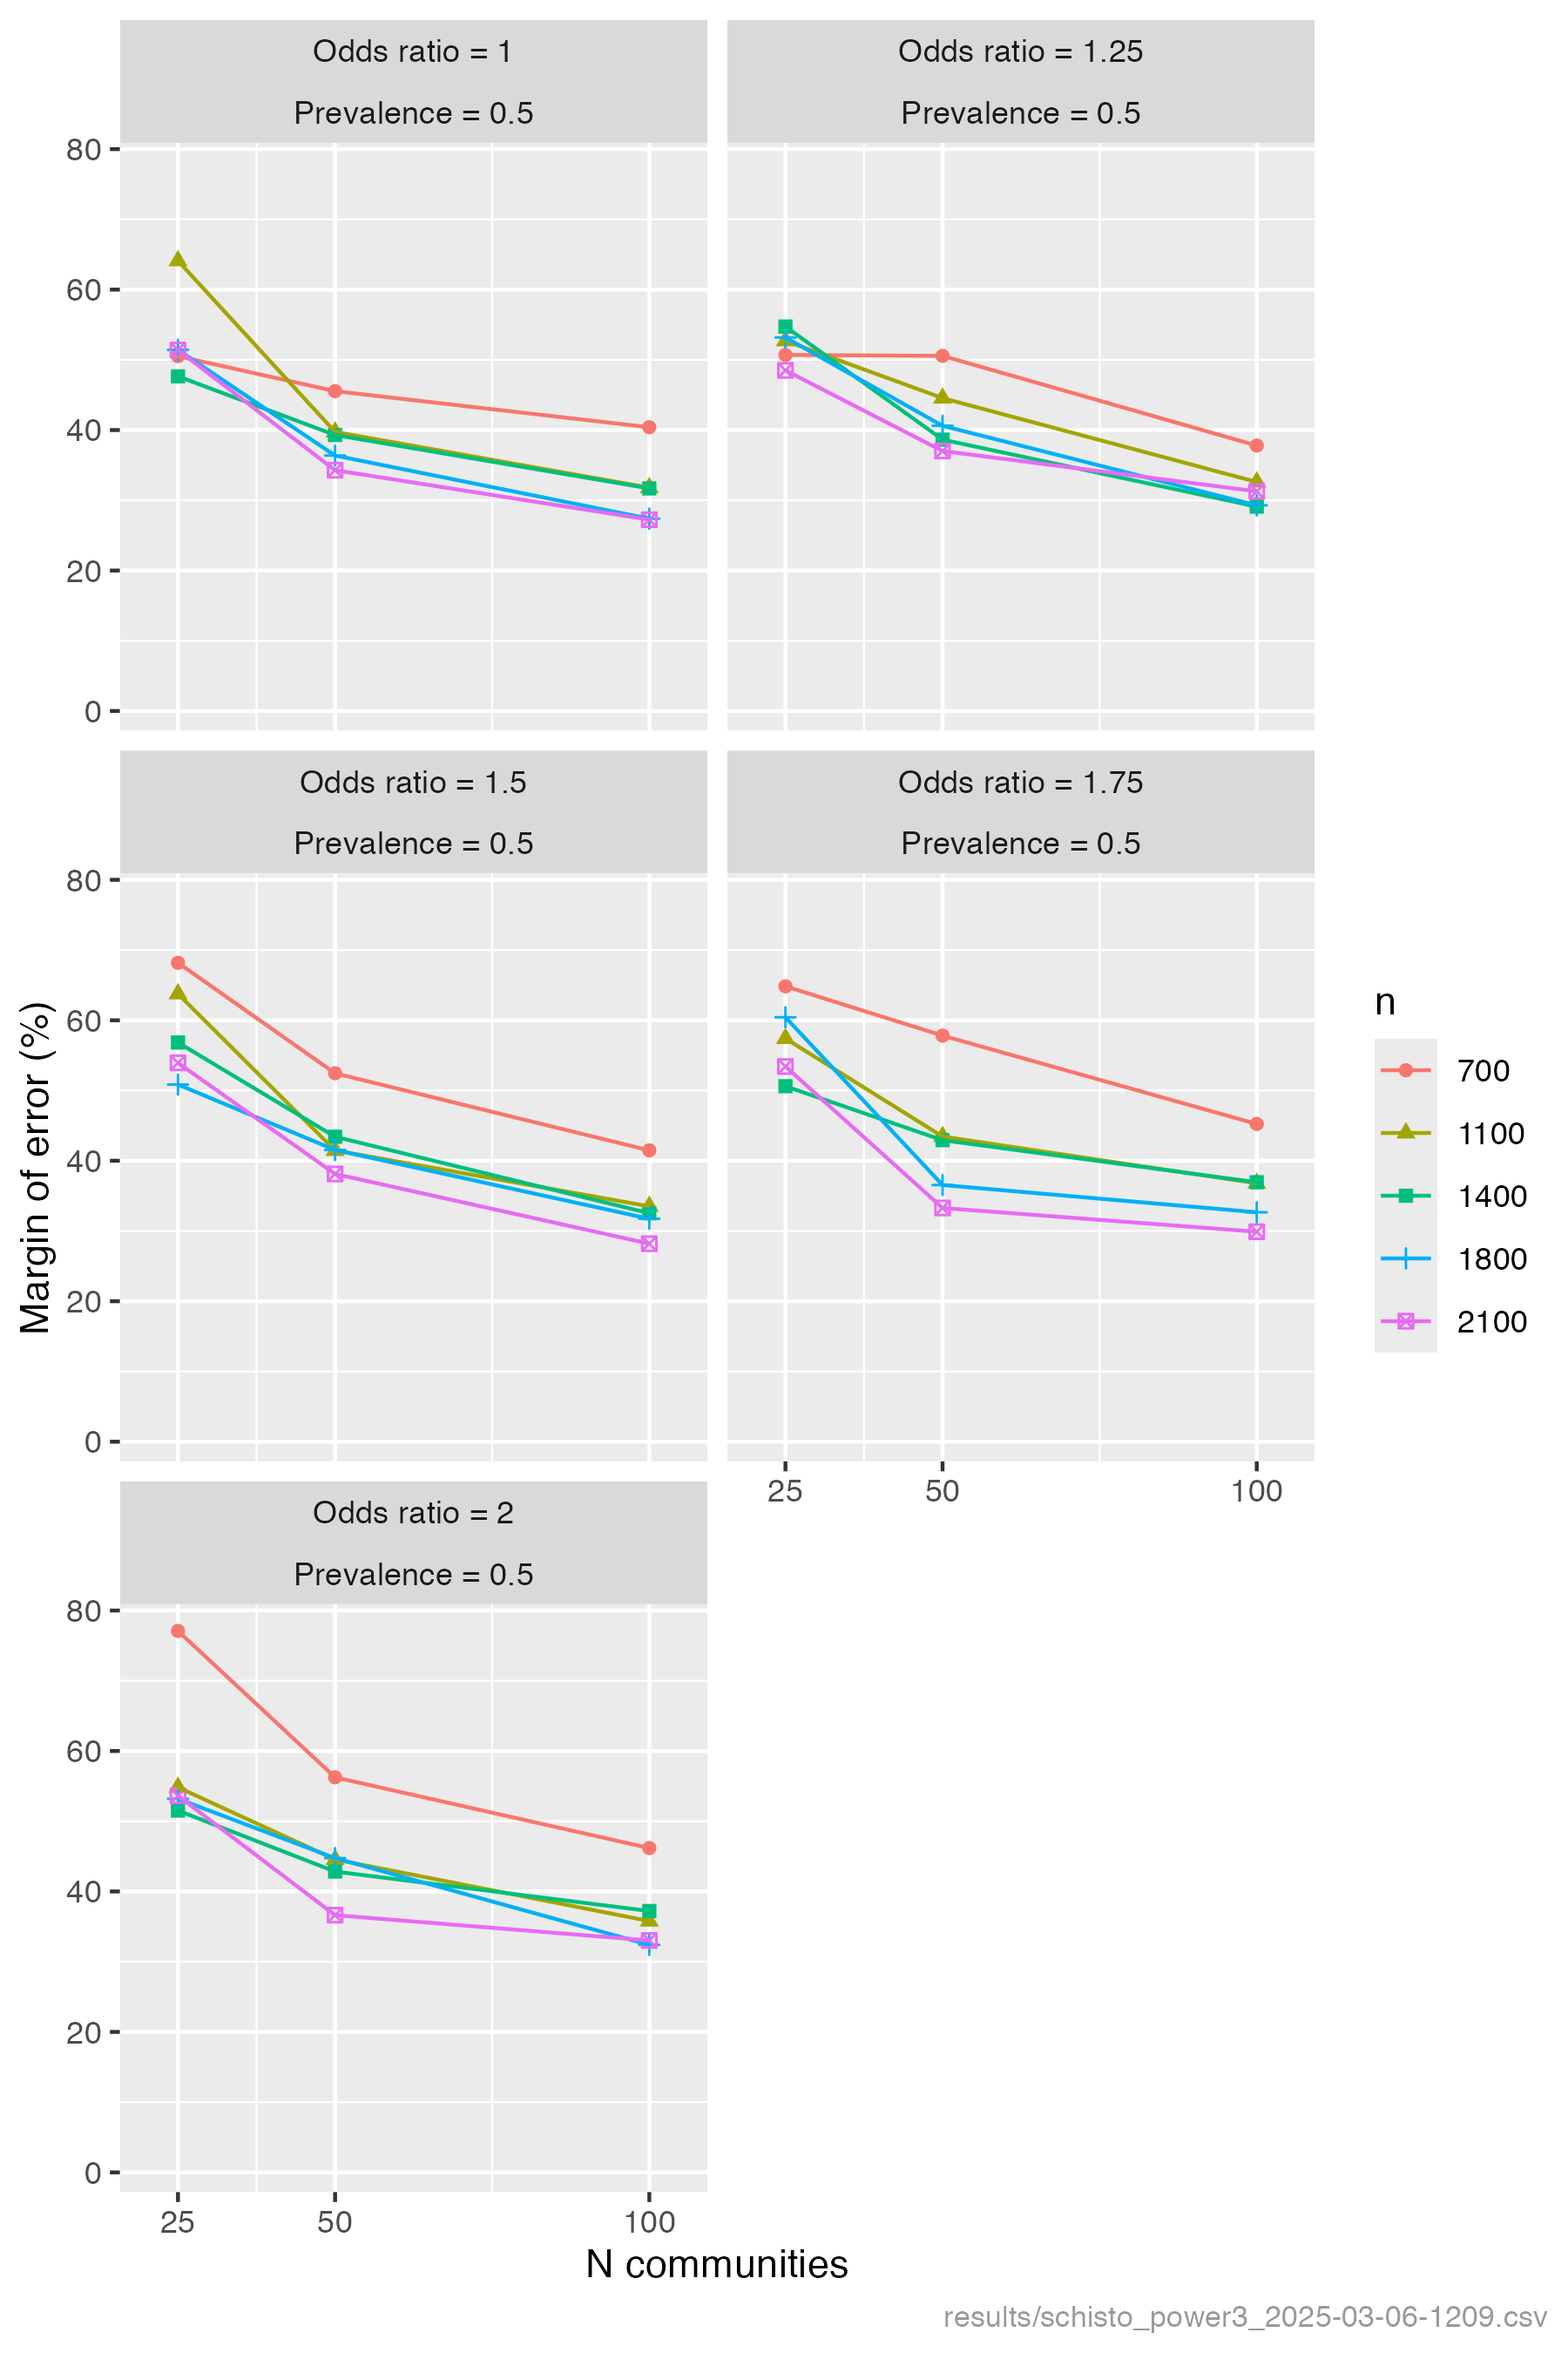
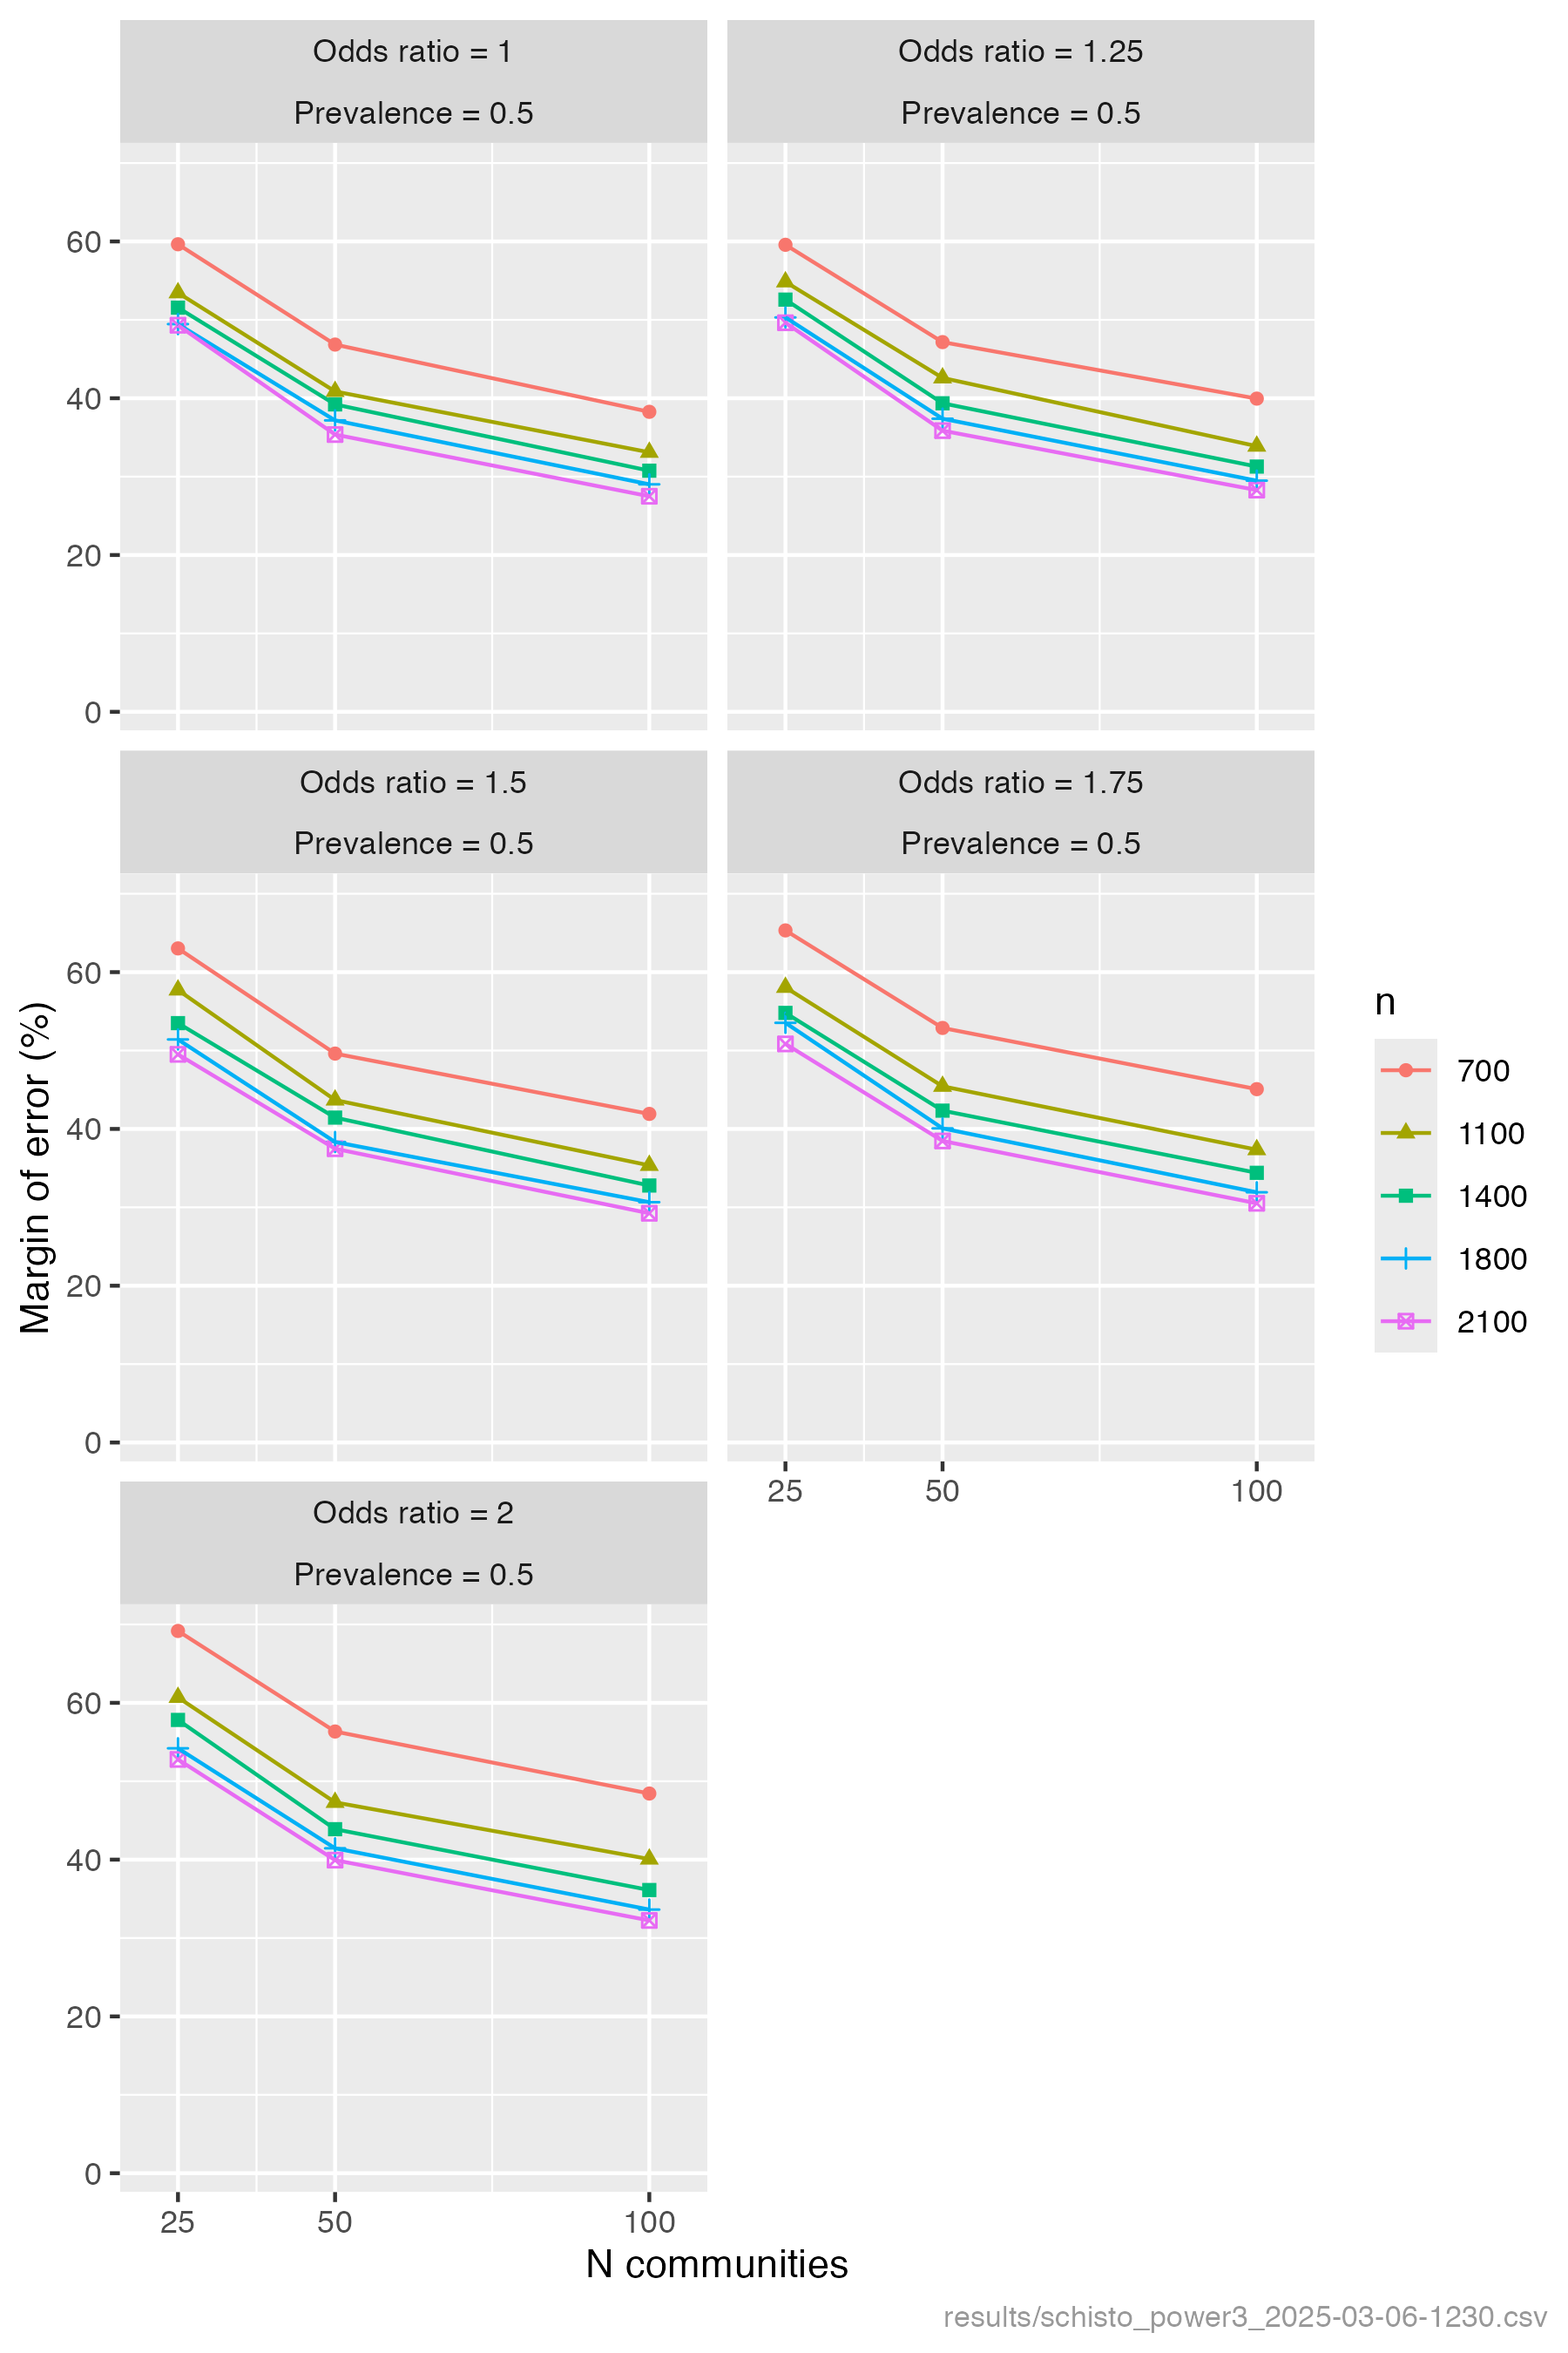
Longer simulations run

diff --git a/README.md b/README.md
@@ -2,7 +2,7 @@
 
  ### Methods
 
- The aim of this power analysis is to estimate power to detect drivers of praziquantel treatment failure in individuals infected with schistosomiasis. This is a simulation-based power analysis, where the study data is simulated and analysed multiple times under varying study design scenarios, and power is estimated as the proportion of simulated analyses that achieve the desired outcome (detecting a true driver of treatment failure). The association between the outcome (treatment failure) and each driver is estimated and tested in a multivariable GLM. For this analysis, power is defined as the proportion of drivers that are significantly associated with the outcome, averaged across 10 simulated data analyses per scenario.
+ The aim of this power analysis is to estimate power to detect drivers of praziquantel treatment failure in individuals infected with schistosomiasis. This is a simulation-based power analysis, where the study data is simulated and analysed multiple times under varying study design scenarios, and power is estimated as the proportion of simulated analyses that achieve the desired outcome (detecting a true driver of treatment failure). The association between the outcome (treatment failure) and each driver is estimated and tested in a multivariable GLM. For this analysis, power is defined as the proportion of drivers that are significantly associated with the outcome, averaged across 500 simulated data analyses per scenario.
 
  The following assumptions are made:
 - 10 drivers are associated with the outcome, of which 3 are binary and 7 continuous. The prevalences of the binary drivers are: 0.5, 0.2, 0.2, representing  malaria, soil-transmitted helminths, hybrid/resistance presence .
@@ -26,7 +26,7 @@
 
  ### Methods
 
- The aim of this power analysis is to estimate power to detect individual- and community-level drivers of schistosomiasis re-infection following clearance, and the expected margin of error around community-level driver odds ratio estimates. This is a simulation-based power analysis, where the study data is simulated and analysed multiple times under varying study design scenarios, and power is estimated as the proportion of simulated analyses that achieve the desired outcome (detecting a true driver of infection). The association between the outcome (infection) and each driver is estimated and tested in a multivariable GLMM. For this analysis, power is defined as the proportion of drivers that are significantly associated with the outcome, averaged across 5 simulated data analyses per scenario.
+ The aim of this power analysis is to estimate power to detect individual- and community-level drivers of schistosomiasis re-infection following clearance, and the expected margin of error around community-level driver odds ratio estimates. This is a simulation-based power analysis, where the study data is simulated and analysed multiple times under varying study design scenarios, and power is estimated as the proportion of simulated analyses that achieve the desired outcome (detecting a true driver of infection). The association between the outcome (infection) and each driver is estimated and tested in a multivariable GLMM. For this analysis, power is defined as the proportion of drivers that are significantly associated with the outcome, averaged across 250 simulated data analyses per scenario.
 
  The following assumptions are made:
 - 5 drivers are associated with the outcome, of which 1 are binary and 4 continuous. The prevalences of the binary drivers are: 0.2, representing  hybrid/resistance presence .
@@ -54,7 +54,7 @@
 
  ### Methods
 
- The aim of this power analysis is to estimate power to detect community-level drivers of schistosomiasis infection, and the expected margin of error around community-level driver odds ratio estimates. This is a simulation-based power analysis, where the study data is simulated and analysed multiple times under varying study design scenarios, and power is estimated as the proportion of simulated analyses that achieve the desired outcome (detecting a true driver of infection). The association between the outcome (infection) and each driver is estimated and tested in a multivariable GLMM. For this analysis, power is defined as the proportion of drivers that are significantly associated with the outcome, averaged across 5 simulated data analyses per scenario.
+ The aim of this power analysis is to estimate power to detect community-level drivers of schistosomiasis infection, and the expected margin of error around community-level driver odds ratio estimates. This is a simulation-based power analysis, where the study data is simulated and analysed multiple times under varying study design scenarios, and power is estimated as the proportion of simulated analyses that achieve the desired outcome (detecting a true driver of infection). The association between the outcome (infection) and each driver is estimated and tested in a multivariable GLMM. For this analysis, power is defined as the proportion of drivers that are significantly associated with the outcome, averaged across 250 simulated data analyses per scenario.
 
  The following assumptions are made:
 - 4 continuous drivers are associated with the outcome.
